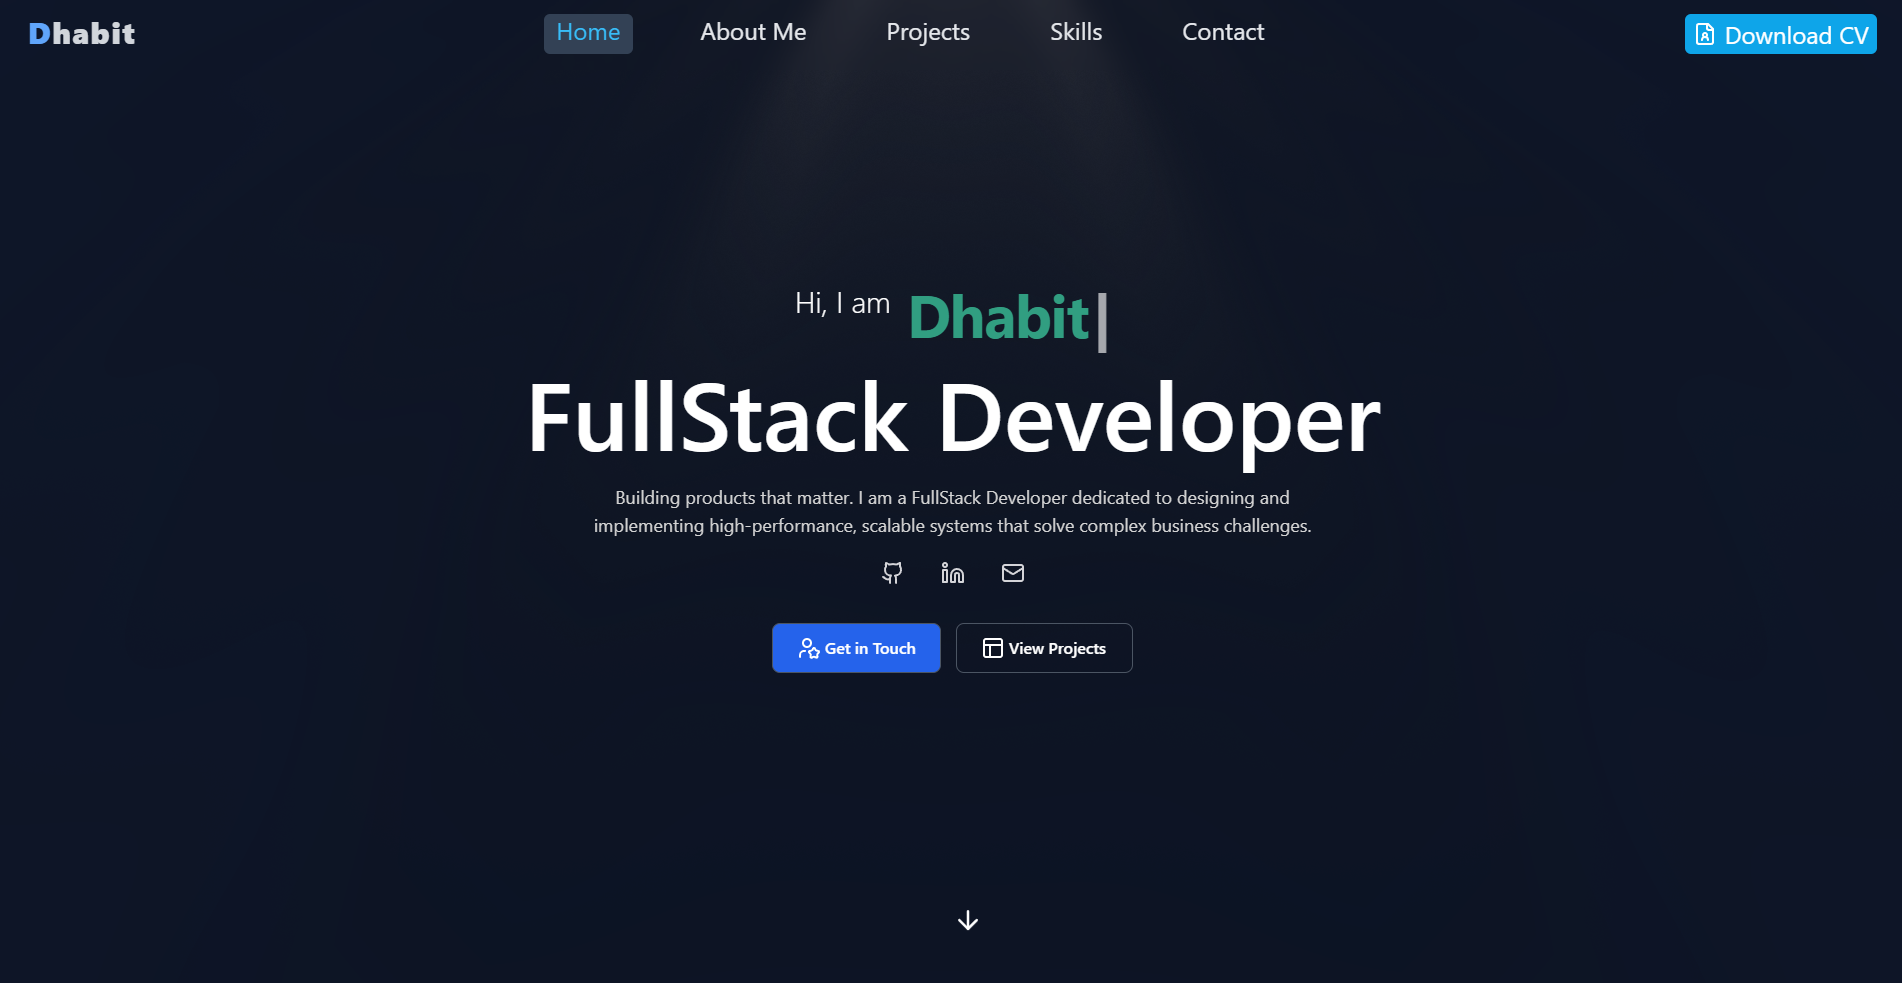
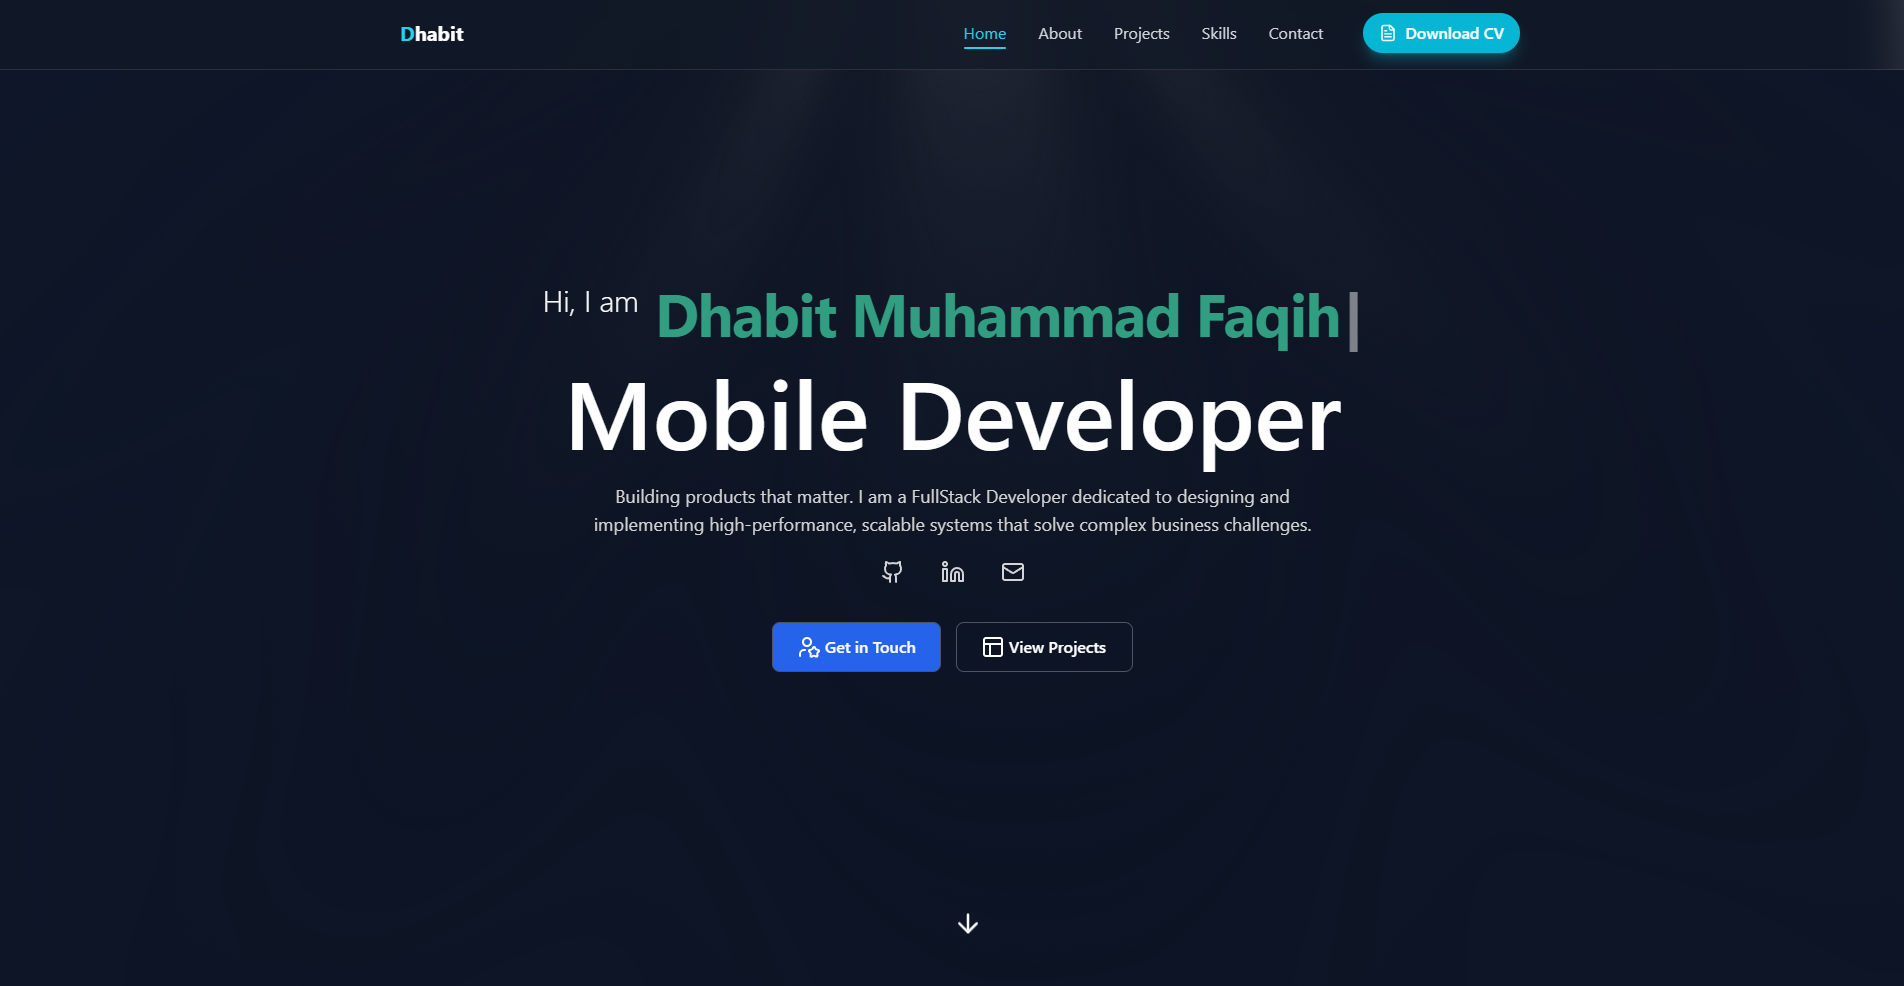
update kata

diff --git a/src/components/skill.jsx b/src/components/skill.jsx
@@ -19,9 +19,9 @@ const tombol = ["Skills", "Certificate", "Tools"];
 const content = {
   Skills: [
     { name: "Javascript", gambar: "https://www.w3schools.com/js/img_javascript_480.jpg", persen: 90 },
-    { name: "Python", gambar: "https://upload.wikimedia.org/wikipedia/commons/thumb/c/c3/Python-logo-notext.svg/1200px-Python-logo-notext.svg.png", persen: 31 },
+    { name: "Python", gambar: "https://s3.dualstack.us-east-2.amazonaws.com/pythondotorg-assets/media/community/logos/python-logo-only.png", persen: 31 },
     { name: "PHP", gambar: "https://upload.wikimedia.org/wikipedia/commons/2/27/PHP-logo.svg", persen: 37 },
-    { name: "React", gambar: "https://upload.wikimedia.org/wikipedia/commons/thumb/3/30/React_Logo_SVG.svg/1200px-React_Logo_SVG.svg.png", persen: 46 },
+    { name: "React", gambar: "https://upload.wikimedia.org/wikipedia/commons/thumb/a/a7/React-icon.svg/960px-React-icon.svg.png?_=20220125121207", persen: 46 },
     { name: "Flutter", gambar: "https://upload.wikimedia.org/wikipedia/commons/thumb/7/79/Flutter_logo.svg/250px-Flutter_logo.svg.png", persen: 67 },
   ],
   Certificate: [
@@ -32,8 +32,8 @@ const content = {
     { name: "Belajar Dasar Pemrograman Web", gambar: sertif5 } 
   ],
   Tools: [
-    { name: "Visual Studio Code", gambar: "https://upload.wikimedia.org/wikipedia/commons/thumb/9/9a/Visual_Studio_Code_1.35_icon.svg/1200px-Visual_Studio_Code_1.35_icon.svg.png" },
-    { name: "Git & GitHub", gambar: "https://upload.wikimedia.org/wikipedia/commons/thumb/e/e0/Git-logo.svg/1200px-Git-logo.svg.png" },
+    { name: "Visual Studio Code", gambar: "https://upload.wikimedia.org/wikipedia/commons/thumb/9/9a/Visual_Studio_Code_1.35_icon.svg/960px-Visual_Studio_Code_1.35_icon.svg.png" },
+    { name: "Git & GitHub", gambar: "https://img.icons8.com/ios11/512/FFFFFF/github.png" },
     { name: "Figma", gambar: "https://upload.wikimedia.org/wikipedia/commons/3/33/Figma-logo.svg" },
     { name: "Android Studio", gambar: "https://upload.wikimedia.org/wikipedia/commons/thumb/c/c1/Android_Studio_icon_%282023%29.svg/1280px-Android_Studio_icon_%282023%29.svg.png" },
   ]

diff --git a/src/components/about.jsx b/src/components/about.jsx
@@ -45,7 +45,7 @@ export default function About() {
             />
           </span>
           <p className='w-80 md:w-[520px] lg:w-[560px] [@media(min-width:1320px)]:w-[60vw] mx-auto mb-5 text-lg md:text-xl text-gray-200'>
-            My name is <span className='text-white'>Dhabit Muhammad Faqih</span>, a passionate software developer who loves exploring new technologies and turning ideas into real, working solutions. With a strong curiosity for learning, I constantly challenge myself to improve both in frontend and backend development, making sure the projects I build are efficient, modern, and scalable.
+            My name is <span className='text-white'>Dhabit Muhammad Faqih</span>, a passionate software developer who loves exploring new technologies and turning ideas into real, working solutions. With a strong curiosity for learning, I constantly challenge myself to improve in mobile development, making sure the projects I build are efficient, modern, and scalable.
           </p>
           <p className='w-80 md:w-[520px] lg:w-[560px] [@media(min-width:1320px)]:w-[60vw] mx-auto mb-5 text-lg md:text-xl text-gray-200'>
             Beyond coding, I enjoy solving problems and finding the most effective way to deliver clean, maintainable solutions. For me, technology is not just a tool, but also a way to create meaningful impact and help people through innovative applications.

diff --git a/src/components/hero.jsx b/src/components/hero.jsx
@@ -21,7 +21,7 @@ export default
         </span>
       </div>
       <h2 className="text-3xl md:text-8xl font-semibold mb-6 text-white">Mobile Developer</h2>
-      <p className="text-neutral-300 text-sm md:text-lg w-96 md:w-[768px] max-w-full mx-auto">Building products that matter. I am a FullStack Developer dedicated to designing and implementing high-performance, scalable systems that solve complex business challenges.</p>
+      <p className="text-neutral-300 text-sm md:text-lg w-96 md:w-[768px] max-w-full mx-auto">Building products that matter. I am a Mobile Developer dedicated to designing and implementing high-performance, scalable systems that solve complex business challenges.</p>
       <div className="flex justify-center space-x-6 mb-8 text-zinc-300 mt-4">
         <a href="https://github.com/Voltsat" target="_blank" className=" p-[6px] rounded-md hover:text-white  transition-colors duration-300 ">
           <Github size={24} />

diff --git a/src/components/project.jsx b/src/components/project.jsx
@@ -5,7 +5,7 @@ import fitnessIMG from "../assets/fitnessProject.png";
 export default function Projects() {
   const projects = [
     {
-      title: "React Portfolio",
+      title: "This Portfolio",
       desc: "A personal portfolio website built using React and Tailwind CSS. It presents my profile, skills, and selected projects in a clean and modern layout.",
       stats: [
         { label: "Views", value: "1K+" },
